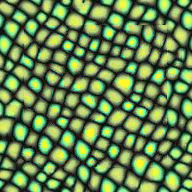
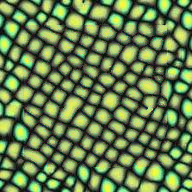
.

diff --git a/PointCloudRetouch/HoleRepairer.cpp b/PointCloudRetouch/HoleRepairer.cpp
@@ -126,8 +126,8 @@ void CHoleRepairer::repairHoleByBoundaryAndInput(const std::vector<pcl::index_t>
 		__outputImage(Mask, "Temp/mask.png");
 
 		//CTextureSynthesizer<int, 3> ColorSynthesizer;
-		COrderIndependentTextureSynthesizer<int, 3> ColorSynthesizer;
-		//CMultithreadTextureSynthesizer<int, 3> ColorSynthesizer;
+		//COrderIndependentTextureSynthesizer<int, 3> ColorSynthesizer;
+		CMultithreadTextureSynthesizer<int, 3> ColorSynthesizer;
 		ColorSynthesizer.execute(InputColorMatrix, Mask, BoundaryColorMatrix);
 		__fillLatticesByMatrix<Eigen::Vector3i>(BoundaryColorMatrix, BoundaryPlaneLattices, offsetof(SLattice, Color));
 
@@ -142,7 +142,7 @@ void CHoleRepairer::repairHoleByBoundaryAndInput(const std::vector<pcl::index_t>
 		__outputImage(InputHeightMatrix, "Temp/inputH.png");
 		__outputImage(BoundaryHeightMatrix, "Temp/output_beforeH.png");
 
-		COrderIndependentTextureSynthesizer<float, 1> HeightSynthesizer;
+		CMultithreadTextureSynthesizer<float, 1> HeightSynthesizer;
 		HeightSynthesizer.execute(InputHeightMatrix, Mask, BoundaryHeightMatrix);
 		//__fillLatticesByMatrix<Eigen::Matrix<float, 1, 1>>(BoundaryHeightMatrix, BoundaryPlaneLattices, offsetof(SLattice, Height));
 		__gaussBlurbyHeightMatrix(BoundaryHeightMatrix, BoundaryPlaneLattices);
